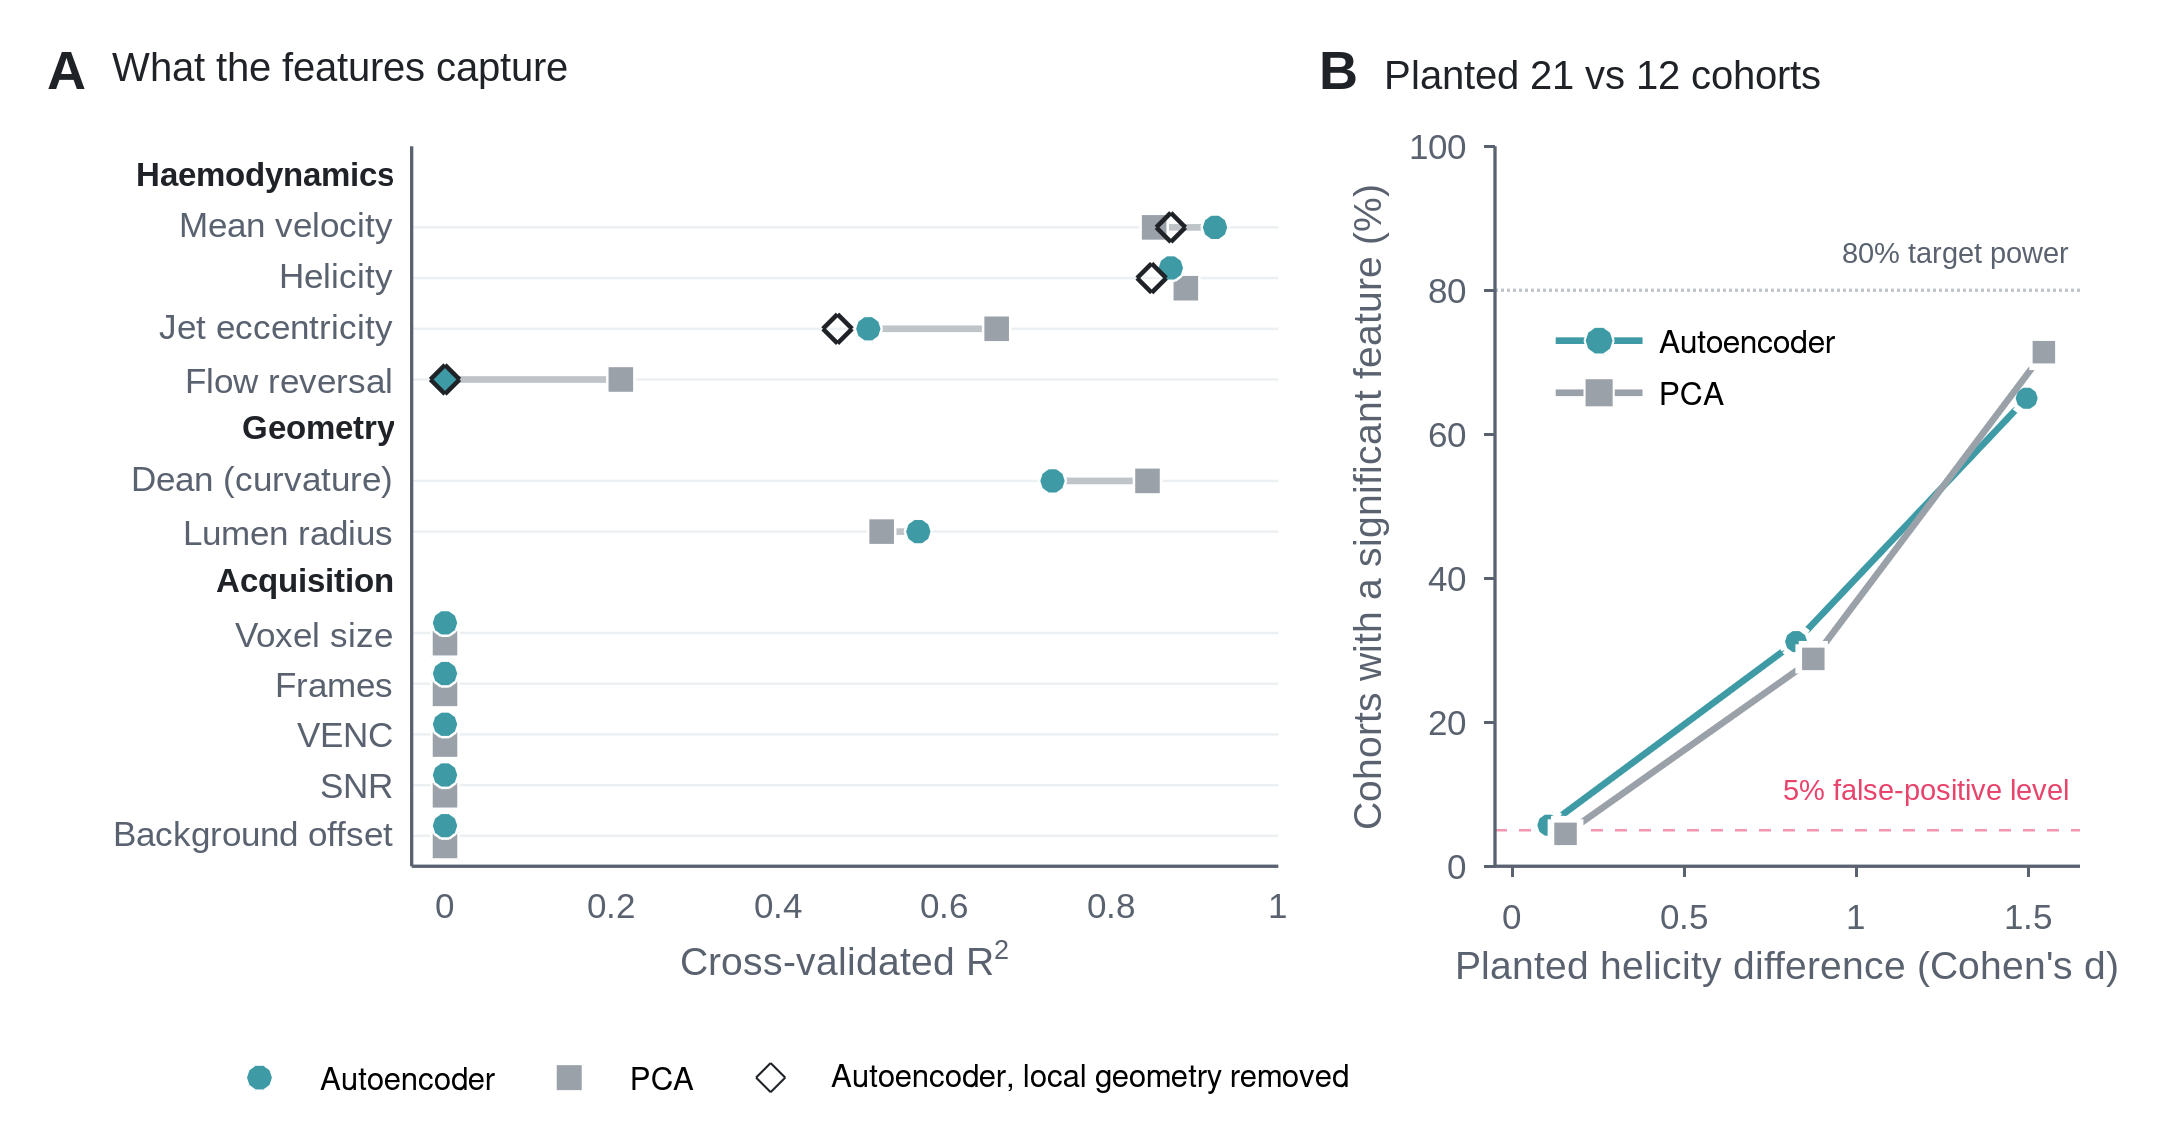
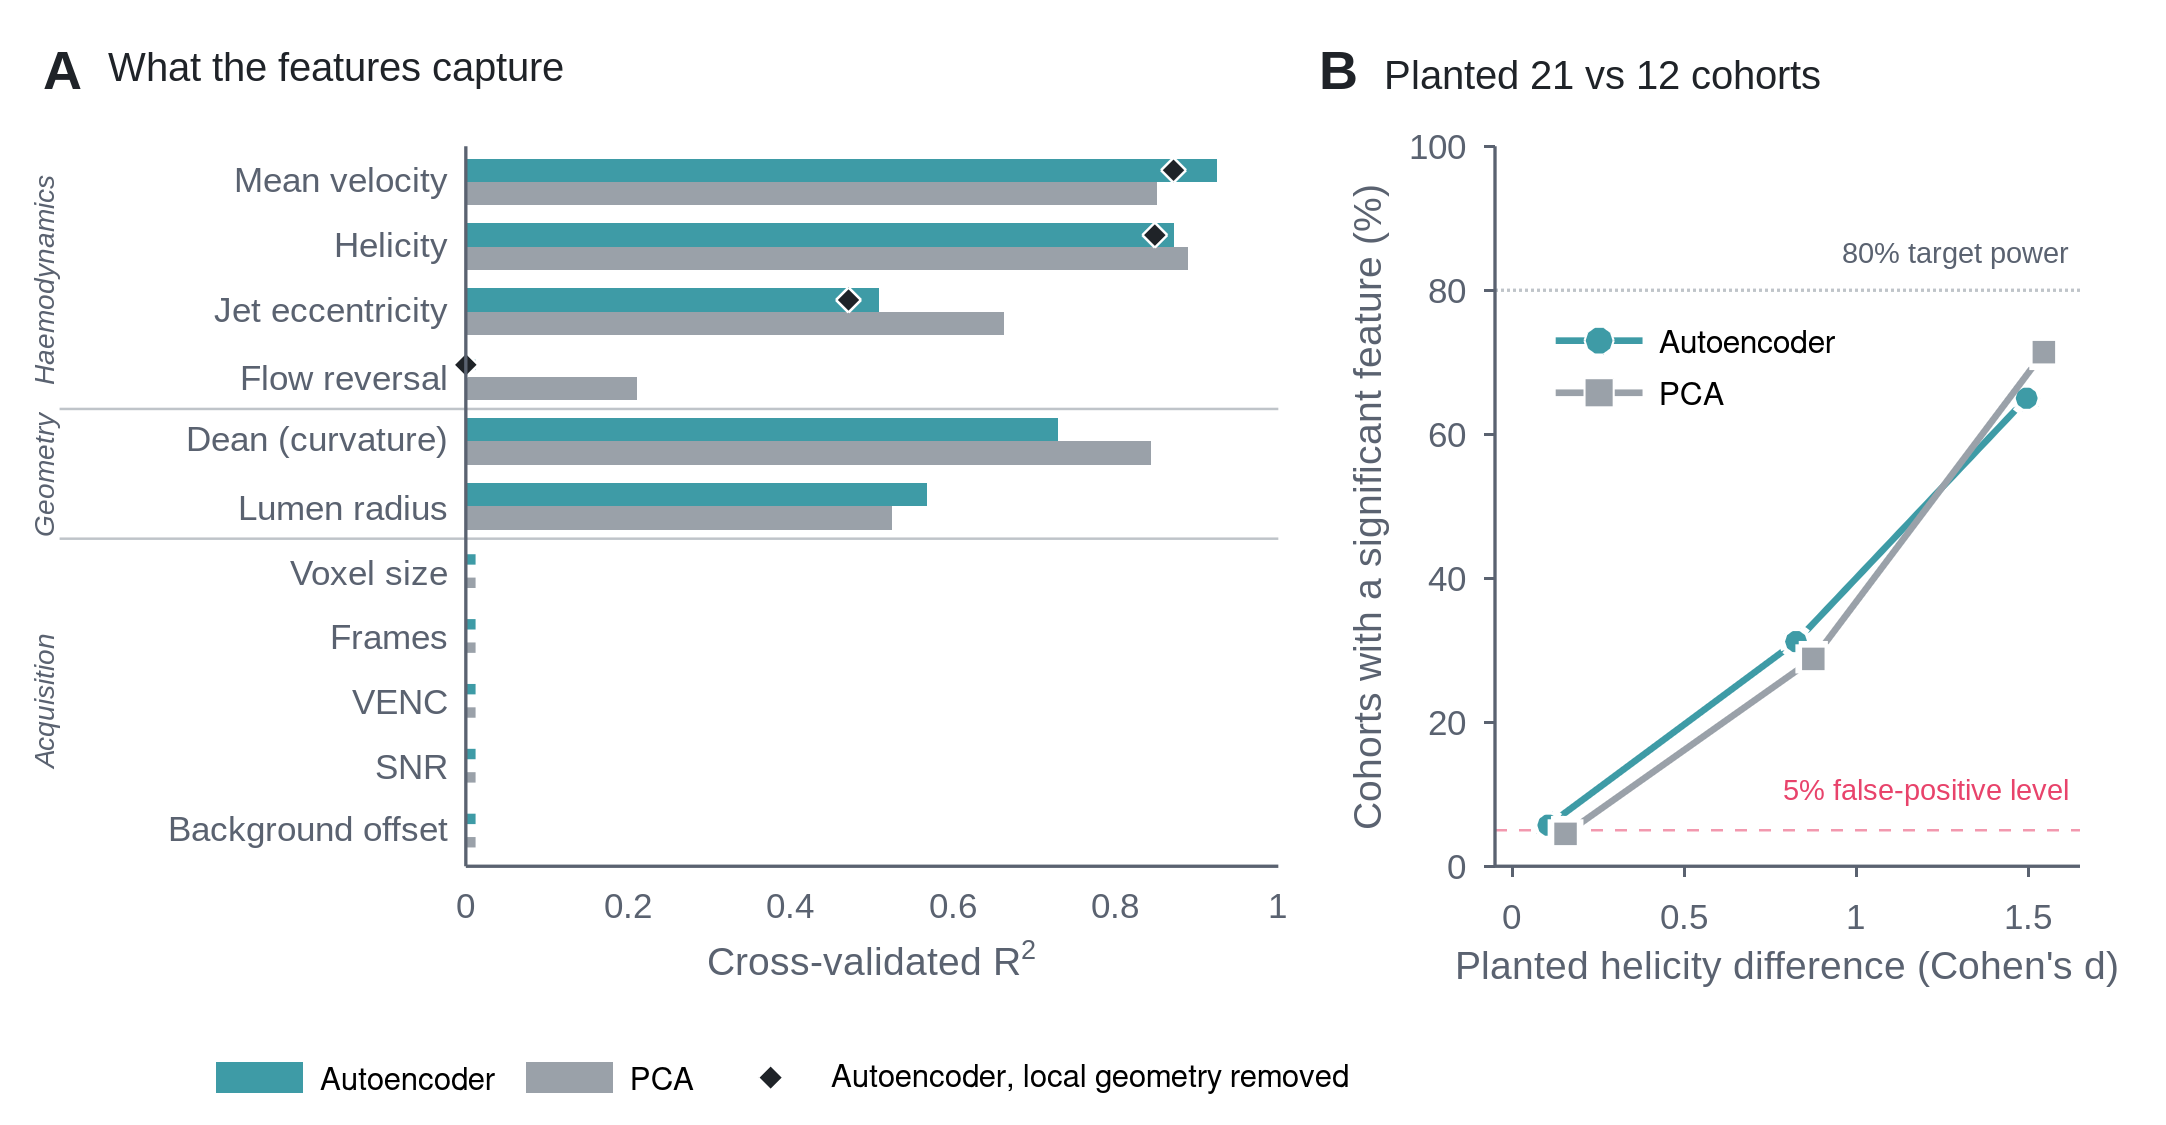
Synthetic figure panel A: back to bars on evenly spaced rows, group labels at left
Claude-Session: https://claude.ai/code/session_01UX2nyZGiRKd23GjC35E87A

diff --git a/figures/matlab/Figure_synthetic_recovery.m b/figures/matlab/Figure_synthetic_recovery.m
@@ -9,30 +9,40 @@ R = read_csv('synthetic_recovery.csv'); R(R < 0) = 0;
 labs = {'Mean velocity', 'Helicity', 'Jet eccentricity', 'Flow reversal', 'Dean (curvature)', ...
     'Lumen radius', 'Voxel size', 'Frames', 'VENC', 'SNR', 'Background offset'};
 n = numel(labs);
-% Dot plot on evenly spaced rows, with a heading row for each group of factors
-y = [13 12 11 10, 8 7, 5 4 3 2 1];   % factor rows
-hy = [14 9 6]; gl = {'Haemodynamics', 'Geometry', 'Acquisition'};
+% Horizontal bars on evenly spaced rows (one row per factor, no extra gaps);
+% groups are marked by thin separators and rotated labels at the left.
+y = n:-1:1;
 f = figure('Color', 'w', 'Units', 'points', 'Position', [50 50 520 270]);
 
 % A  What the features capture --------------------------------------------
-ax = axes('Position', [0.19 0.23 0.4 0.64]); hold(ax, 'on');
-for i = 1:n   % faint guide line per row, then a thin link between the two methods
-    plot(ax, [-0.04 1], [y(i) y(i)], '-', 'Color', [0.93 0.94 0.95], 'LineWidth', 0.6);
-    plot(ax, [R(i, 1) R(i, 2)], [y(i) y(i)], '-', 'Color', C.edge, 'LineWidth', 1.6);
+ax = axes('Position', [0.215 0.23 0.375 0.64]); hold(ax, 'on');
+bh = 0.36;   % height of each bar; the pair fills most of the row
+for i = 1:n
+    patch(ax, [0 R(i, 1) R(i, 1) 0], y(i) + [0 0 bh bh], C.teal, 'EdgeColor', 'none');
+    patch(ax, [0 R(i, 2) R(i, 2) 0], y(i) - [0 0 bh bh], C.grey, 'EdgeColor', 'none');
+    if R(i, 1) < 0.02   % value near zero: small tick so it reads as a result
+        plot(ax, [0 0.012], y(i) + bh / 2 * [1 1], '-', 'Color', C.teal, 'LineWidth', 2.5);
+    end
+    if R(i, 2) < 0.02
+        plot(ax, [0 0.012], y(i) - bh / 2 * [1 1], '-', 'Color', C.grey, 'LineWidth', 2.5);
+    end
 end
-% where both methods sit at the same value, separate them slightly so both stay visible
-same = abs(R(:, 1) - R(:, 2)) < 0.03; dy = 0.2 * same';
-hP = plot(ax, R(:, 2), y - dy, 's', 'MarkerSize', 6.5, 'MarkerFaceColor', C.grey, 'MarkerEdgeColor', 'w', 'LineWidth', 0.6);
-hA = plot(ax, R(:, 1), y + dy, 'o', 'MarkerSize', 6.5, 'MarkerFaceColor', C.teal, 'MarkerEdgeColor', 'w', 'LineWidth', 0.6);
-hG = plot(ax, R(1:4, 3), y(1:4), 'd', 'MarkerSize', 7, 'MarkerFaceColor', 'none', 'MarkerEdgeColor', C.ink, 'LineWidth', 1.1);
+hG = plot(ax, R(1:4, 3), y(1:4)' + bh / 2, 'd', 'MarkerSize', 6, 'MarkerFaceColor', C.ink, 'MarkerEdgeColor', 'w', 'LineWidth', 0.6);
+sep = [mean(y(4:5)) mean(y(6:7))];
+for k = 1:2
+    plot(ax, [-0.5 1], [sep(k) sep(k)], '-', 'Color', C.edge, 'LineWidth', 0.6, 'Clipping', 'off');
+end
+grp = {1:4, 5:6, 7:11}; gl = {'Haemodynamics', 'Geometry', 'Acquisition'};
 for g = 1:3
-    text(ax, -0.06, hy(g), gl{g}, 'HorizontalAlignment', 'right', 'VerticalAlignment', 'middle', ...
-        'FontName', C.font, 'FontSize', 8, 'FontWeight', 'bold', 'Color', C.ink);
+    yy = mean(y(grp{g}));
+    text(ax, -0.5, yy, gl{g}, 'Rotation', 90, 'HorizontalAlignment', 'center', 'VerticalAlignment', 'bottom', ...
+        'FontName', C.font, 'FontSize', 6.8, 'FontAngle', 'italic', 'Color', C.axis);
 end
-set(ax, 'YTick', fliplr(y), 'YTickLabel', fliplr(labs), 'YLim', [0.4 14.6], 'XLim', [-0.04 1], 'XTick', 0:0.2:1);
+set(ax, 'YTick', fliplr(y), 'YTickLabel', fliplr(labs), 'YLim', [0.45 n + 0.55], 'XLim', [0 1], 'XTick', 0:0.2:1);
 xlabel(ax, 'Cross-validated R^2', 'Color', C.ink);
 style_axes(ax); set(ax, 'TickLength', [0 0]);
-panel_label(ax, 'A', 'What the features capture', -0.42);
+panel_label(ax, 'A', 'What the features capture', -0.52);
+hA = patch(ax, NaN, NaN, C.teal, 'EdgeColor', 'none'); hP = patch(ax, NaN, NaN, C.grey, 'EdgeColor', 'none');
 lg = legend(ax, [hA hP hG], {'Autoencoder', 'PCA', 'Autoencoder, local geometry removed'}, 'Box', 'off', ...
     'Color', 'none', 'FontSize', 7.5, 'Orientation', 'horizontal');
 set(lg, 'Position', [0.06 0.01 0.6 0.06]);
